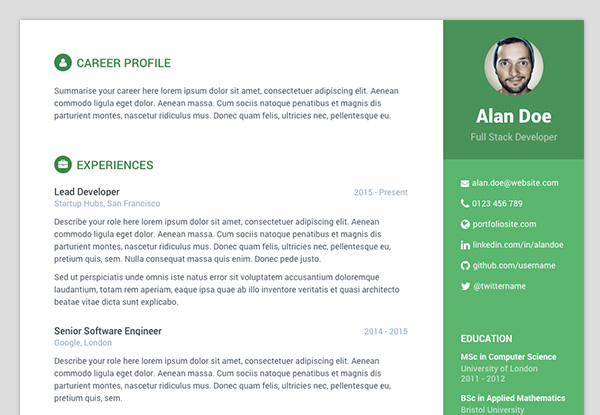
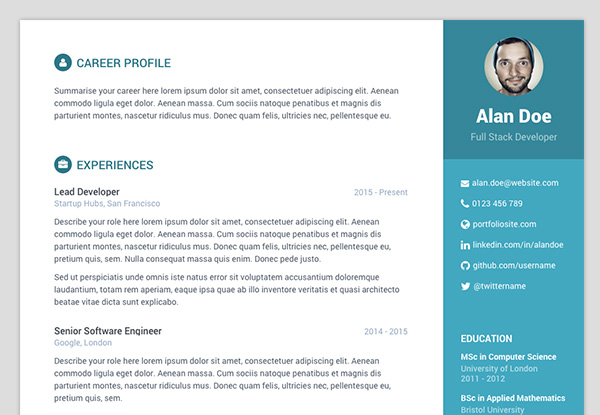
Initial commit

Changed region(s): [[0.72, 0.0289, 0.99, 1.0], [0.09, 0.1157, 0.3, 0.1735], [0.09, 0.3759, 0.27, 0.4337]]

diff --git a/assets/css/main.scss b/assets/css/main.scss
@@ -14,5 +14,5 @@ $resume-order: 1;
 $sidebar-order: 2;
 {% endif %}
 
-@import "skins/{{ site.theme_skin | default: 'green' }}"; // skin
+@import "skins/{{ site.theme_skin | default: 'blue' }}"; // skin
 @import "default"; // main partials

diff --git a/_sass/skins/_blue.scss b/_sass/skins/_blue.scss
@@ -1,5 +1,5 @@
 /* Blue variables */
-$theme-color: #42A8C0;
+$theme-color: #63c43d;
 $text-color: #3F4650;
 $text-color-secondary: #545E6C;
 $text-grey: #97AAC3;
